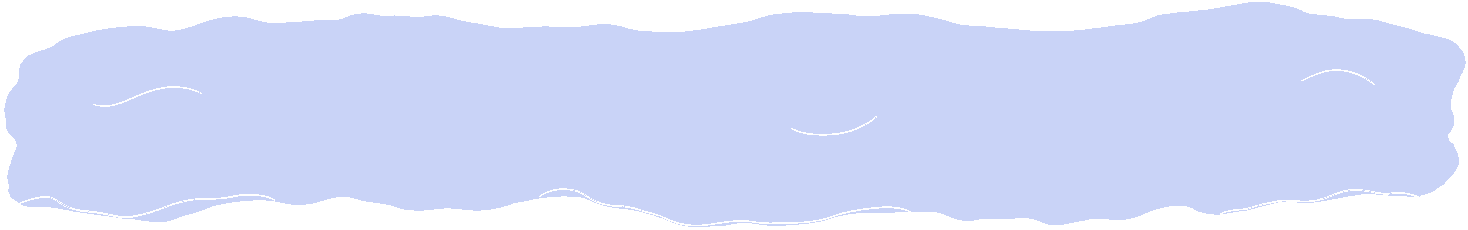
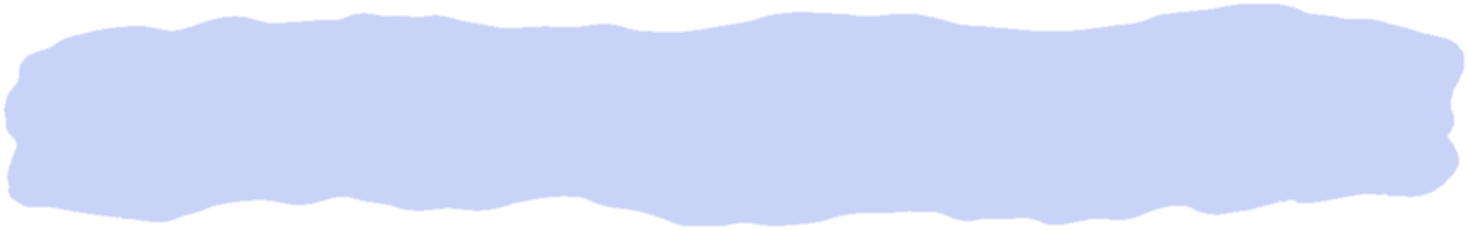
fix(other-half): water round 3: the loop and its smearing drawn by one hand (forge water-loops r1 c1) on the flat field; the caption names what lifetime means and who drew what

diff --git a/articles/other-half/figures/water.js b/articles/other-half/figures/water.js
@@ -1,11 +1,12 @@
 // water: a qubit is like a pattern drawn on water, and it smears almost at
-// once. One strip of still water in the hand of the opening drawing (forge
-// board water r2 c3, split into its line and its flat field, art/water-*.png).
-// On it, one closed loop drawn with the article's pen line, three times along
-// the strip: just drawn, then loosened, then a ghost. The loosening is the
-// same loop drawn again with a looser hand, drifting, spreading and fading;
-// the ink each stage keeps is data/water.json `ink_left` (the decay of the
-// median qubit). No raster filter, no holes punched in a line.
+// once. Two drawn layers, both from the forge with the author's line
+// reference and the opening drawing as the hand to match:
+//   art/water-field.png – the water, one flat field with a torn edge, in the
+//     opening drawing's colour (board water r2 c3, its field only);
+//   art/water-loops.png – the same loop drawn three times by one hand: just
+//     drawn, smearing (broken, feathered, drifted), a ghost (board water-loops
+//     r1 c1).
+// Code adds only the time line, the words and when each moment appears.
 import {
   mountFigure, svgRoot, g, h, path, pen, stage, clamp, easeOut,
 } from '../../../lib/fig.js';
@@ -14,20 +15,10 @@ import { pal, text, floor } from './shared.js';
 export const steps = 1;
 export const playLine = 0.6;         // plays once its centre is at 60% of the window, where the eyes are
 export const durations = { medium: [2.4] };
-const SIZE = { wide: [520, 176], tall: [360, 168] };
+const SIZE = { wide: [520, 226], tall: [360, 210] };
 export const aspect = { wide: SIZE.wide[0] / SIZE.wide[1], tall: SIZE.tall[0] / SIZE.tall[1] };
-const STRIP = [1468, 230];
-const art = (name) => new URL(`../art/${name}`, import.meta.url).href;
-
-// The loop: one closed, uneven round shape drawn in one stroke, its end
-// running a little past its start, as a hand closes a loop. Unit radius;
-// two slow harmonics keep it from reading as a letter, a digit or a circle.
-const LOOP = Array.from({ length: 73 }, (_, i) => {
-  const a = -2.2 + (i / 72) * (Math.PI * 2 + 0.45);
-  const r = 1 + 0.1 * Math.sin(2 * a + 0.8) + 0.06 * Math.sin(3 * a + 2.1);
-  return [Math.cos(a) * r * 0.5, Math.sin(a) * r * 0.33];
-});
-const CRISP = 1.3;                   // the pen weight of the crisp loop
+// the loops image, 1536 × 512: the three loops' centres and their band
+const IMG = [1536, 512], CX = [256, 759, 1268], BAND = [84, 424];
 
 function build(el, ctx) {
   const tall = ctx.layout === 'tall';
@@ -35,83 +26,63 @@ function build(el, ctx) {
   const C = pal(ctx), d = ctx.data;
   const [W, H] = SIZE[tall ? 'tall' : 'wide'];
   const S = d.stages;
-  const svg = svgRoot(el, W, H, `A qubit is like a pattern drawn on water. One loop on a strip of still water, three times: ${S[0].say}; after ${S[1].say} (${S[1].mono}) loosened, with about a third of its ink left; after ${S[2].say} (${S[2].mono}) a faint ghost. ${d.lifetime_us.say}.`);
+  const art = (name) => new URL(`../art/${name}`, import.meta.url).href;
+  const svg = svgRoot(el, W, H, `A qubit is like a pattern drawn on water. The same loop on still water: ${S[0].say}; after ${S[1].say} (${S[1].mono}) it is breaking up and smearing; after ${S[2].say} (${S[2].mono}) only a ghost of it is left. ${d.lifetime_us.say}.`);
   svg.style.color = C.ink;
   const st = stage();
+  const uid = `w${Math.random().toString(36).slice(2, 7)}`;
+  const defs = h('defs', {}, svg);
 
-  // the strip, wider than the figure on a phone so the water has some height
-  const sx = tall ? -46 : 0, sw = tall ? W + 92 : W, sh = sw * STRIP[1] / STRIP[0];
-  const sy = tall ? 26 : 30;
-  const water = g(svg);
-  h('image', { href: art('water-field.png'), x: sx, y: sy, width: sw, height: sh }, water);
-  h('image', { href: art('water-line.png'), x: sx, y: sy, width: sw, height: sh }, water);
-
-  const cxs = [W / 6, W / 2, (5 * W) / 6];
-  const cy = sy + sh * 0.48, size = tall ? 64 : 84;
-  const loopPts = (cx, dx = 0, dy = 0) => LOOP.map(([u, v]) => [cx + dx + u * size, cy + dy + v * size]);
-  const share = d.ink_left.value;
-  // stage k: copies drawn with a looser hand, each drifting a little; their
-  // opacity × width adds up to the share of ink the stage keeps
-  const STAGES = [
-    [{ amp: 0.7, dx: 0, dy: 0, w: CRISP, seed: 11 }],
-    [{ amp: 2.4, dx: 1.5, dy: -1, w: 1.6, seed: 23 }, { amp: 3.2, dx: 4, dy: 1.5, w: 1.6, seed: 37 }],
-    [{ amp: 4.5, dx: 3, dy: -2, w: 2.2, seed: 41 }, { amp: 6, dx: 9, dy: 2.5, w: 2.2, seed: 59 }],
-  ];
-  // every panel starts with the crisp loop; panels 2 and 3 loosen in place
-  const crisp = [1, 2].map((k) => {
-    const grp = g(svg);
-    const c = STAGES[0][0];
-    path(grp, pen(loopPts(cxs[k], c.dx, c.dy), c.seed, c.amp), { stroke: C.ink, 'stroke-width': c.w, 'stroke-linecap': 'round', 'stroke-linejoin': 'round' });
+  // the drawing, scaled to the figure's width (on a phone a little wider
+  // than the screen column, its empty ends cut off)
+  const over = tall ? 40 : 0;
+  const k = (W + 2 * over) / IMG[0];
+  const ox = -over, oy = tall ? 4 : 8;
+  const X = (x) => ox + x * k, Y = (y) => oy + y * k;
+  h('image', { href: art('water-field.png'), x: X(0), y: Y(BAND[0]), width: IMG[0] * k, height: (BAND[1] - BAND[0]) * k, preserveAspectRatio: 'none' }, svg);
+  // each moment is its own third of the loops image
+  const moments = [0, 1, 2].map((i) => {
+    const cp = h('clipPath', { id: `${uid}c${i}` }, defs);
+    h('rect', { x: X(i * 512), y: Y(0), width: 512 * k, height: IMG[1] * k }, cp);
+    const grp = g(svg, { 'clip-path': `url(#${uid}c${i})` });
+    h('image', { href: art('water-loops.png'), x: X(0), y: Y(0), width: IMG[0] * k, height: IMG[1] * k }, grp);
     return grp;
   });
-  const loops = STAGES.map((copies, k) => {
-    const grp = g(svg);
-    const op = (share[k] * CRISP) / copies.reduce((a, c) => a + c.w, 0);
-    copies.forEach((c) => path(grp, pen(loopPts(cxs[k], c.dx, c.dy), c.seed, c.amp), {
-      stroke: C.ink, 'stroke-width': c.w, 'stroke-linecap': 'round', 'stroke-linejoin': 'round', opacity: Math.min(1, op).toFixed(3),
-    }));
-    return grp;
-  });
+  const cxs = CX.map(X);
 
   const title = g(svg);
-  text(title, cxs[0], tall ? 15 : 18, 'a qubit', { italic: true, size: tall ? 14 : 16, anchor: 'middle' });
+  text(title, cxs[0], Y(BAND[0]) - (tall ? 8 : 10), 'a qubit', { italic: true, size: tall ? 14 : 16, anchor: 'middle' });
 
-  // the time line under the strip, in the pen's hand, with a tick per stage
-  const ty = sy + sh + (tall ? 14 : 16);
+  // the time line under the water, in the pen's hand, a tick per moment
+  const ty = Y(BAND[1]) + (tall ? 14 : 16);
   const seg = (a, b, seed) => path(svg, pen([[a, ty], [b, ty]], seed, 0.6), { stroke: C.ink, 'stroke-width': 1, 'stroke-linecap': 'round' });
   const line1 = seg(cxs[0], cxs[1], 3), line2 = seg(cxs[1], cxs[2], 7);
-  const tick = (x) => path(svg, `M${x} ${ty - 3.5}L${x + 0.5} ${ty + 3.5}`, { stroke: C.ink, 'stroke-width': 1, 'stroke-linecap': 'round' });
-  const ticks = cxs.map(tick);
+  const ticks = cxs.map((x) => path(svg, `M${x} ${ty - 3.5}L${x + 0.5} ${ty + 3.5}`, { stroke: C.ink, 'stroke-width': 1, 'stroke-linecap': 'round' }));
   const monoY = ty + (tall ? 50 : 38);
-  const label = (i) => {
+  const labels = [0, 1, 2].map((i) => {
     const lg = g(svg);
-    const words = tall ? S[i].say.replace(/^(about a thousandth|two) /, '$1\n') : S[i].say;
-    text(lg, cxs[i], ty + (tall ? 18 : 20), words, { italic: true, size: tall ? 13 : 14, anchor: 'middle', lh: 15 });
+    const words = tall ? S[i].say.replace(/^(less than a thousandth|under two) /, '$1\n') : S[i].say;
+    text(lg, cxs[i], ty + (tall ? 18 : 20), words, { italic: true, size: tall ? 13 : 13.5, anchor: 'middle', lh: 15 });
     if (S[i].mono) text(lg, cxs[i], monoY, S[i].mono, { family: 'mono', size: tall ? 11.5 : 12, fill: C.muted, anchor: 'middle' });
     return lg;
-  };
-  const labels = [0, 1, 2].map(label);
+  });
 
-  // 2.4 s: the first loop and its words stand; the line draws to the first
-  // mark; the loosened loop settles in, then its words; the line on; the
-  // ghost; its words. One thing moves at a time.
-  // the crisp loop of a panel gives way to its loosened copies, in place
-  const loosen = (k, a, b) => {
-    st.fade(crisp[k - 1], -1, -0.5, [a, b]);
-    st.on((gg) => {
-      const p = clamp((gg - a) / (b - a)), grp = loops[k];
-      grp.style.display = p <= 0.001 ? 'none' : '';
-      grp.style.opacity = p >= 0.999 ? '' : easeOut(p).toFixed(3);
-    });
-  };
+  // 2.4 s. The water and the loop just drawn stand from the start. The line
+  // draws to the first mark and the smearing loop comes up in its place;
+  // then its words; the line on; the ghost; its words. One thing at a time.
+  const appear = (grp, a, b) => st.on((gg) => {
+    const p = clamp((gg - a) / (b - a));
+    grp.style.display = p <= 0.001 ? 'none' : '';
+    grp.style.opacity = p >= 0.999 ? '' : easeOut(p).toFixed(3);
+  });
   st.fade(ticks[0], 0, 0.04);
   st.draw(line1, 0, 0.36).fade(ticks[1], 0.34, 0.4);
-  loosen(1, 0.33, 0.55);
+  appear(moments[1], 0.33, 0.55);
   st.fade(labels[1], 0.48, 0.58);
   st.draw(line2, 0.55, 0.8).fade(ticks[2], 0.78, 0.84);
-  loosen(2, 0.76, 0.96);
+  appear(moments[2], 0.76, 0.96);
   st.fade(labels[2], 0.9, 1);
-  void water; void loops[0]; void labels[0];
+  void moments[0]; void labels[0];
 
   return { set: (s, t) => st.set(s, t) };
 }

diff --git a/articles/other-half/text.md b/articles/other-half/text.md
@@ -28,7 +28,7 @@ So we set ourselves three questions: what the program has to do, why a network c
 A qubit is the quantum version of a bit, and its weakness is that it doesn't keep its state. It behaves like a pattern drawn on the surface of water: it starts to smear as soon as it's made. On Google's 2024 chip the median qubit lifetime is 85 millionths of a second, about a thousandth of a blink. {{GQA-2024 OWN-ARITH}} The operations add errors of their own: each one has a small chance of going wrong.
 
 :::figure water column
-A qubit holds its state like a pattern drawn on water. The same loop on the same water, just drawn, after 85 millionths of a second and after 170: it loosens, breaks and fades. 85 µs is the median lifetime of the qubits in Google's largest grid in 2024; a blink is taken as a tenth of a second. Drawing: an image model, from our own line reference, with the loop of the opening drawing.
+A qubit holds its state like a pattern drawn on water. The same loop on still water, just drawn, after 85 millionths of a second and after 170: it breaks up, smears and fades. 85 µs is the median lifetime, averaged over every state a qubit can hold, of the qubits in Google's largest grid in 2024; a blink is taken as a tenth of a second. Drawing: an image model, from our own line reference and the opening drawing; the time line and words are drawn by our code.
 :::
 
 That sounds harmless until it's set against a real job. A well-known estimate for breaking the encryption that protects much of the internet's traffic puts two numbers side by side. The hardware it assumes slips about once in every thousand basic operations. The calculation it plans needs between two and three billion steps of the costly kind, each built from many basic operations, and a single uncorrected slip can spoil the answer. {{GE-2021}} At one slip per thousand, that means millions of slips where one is enough. Unaided, such hardware cannot finish the calculation.
